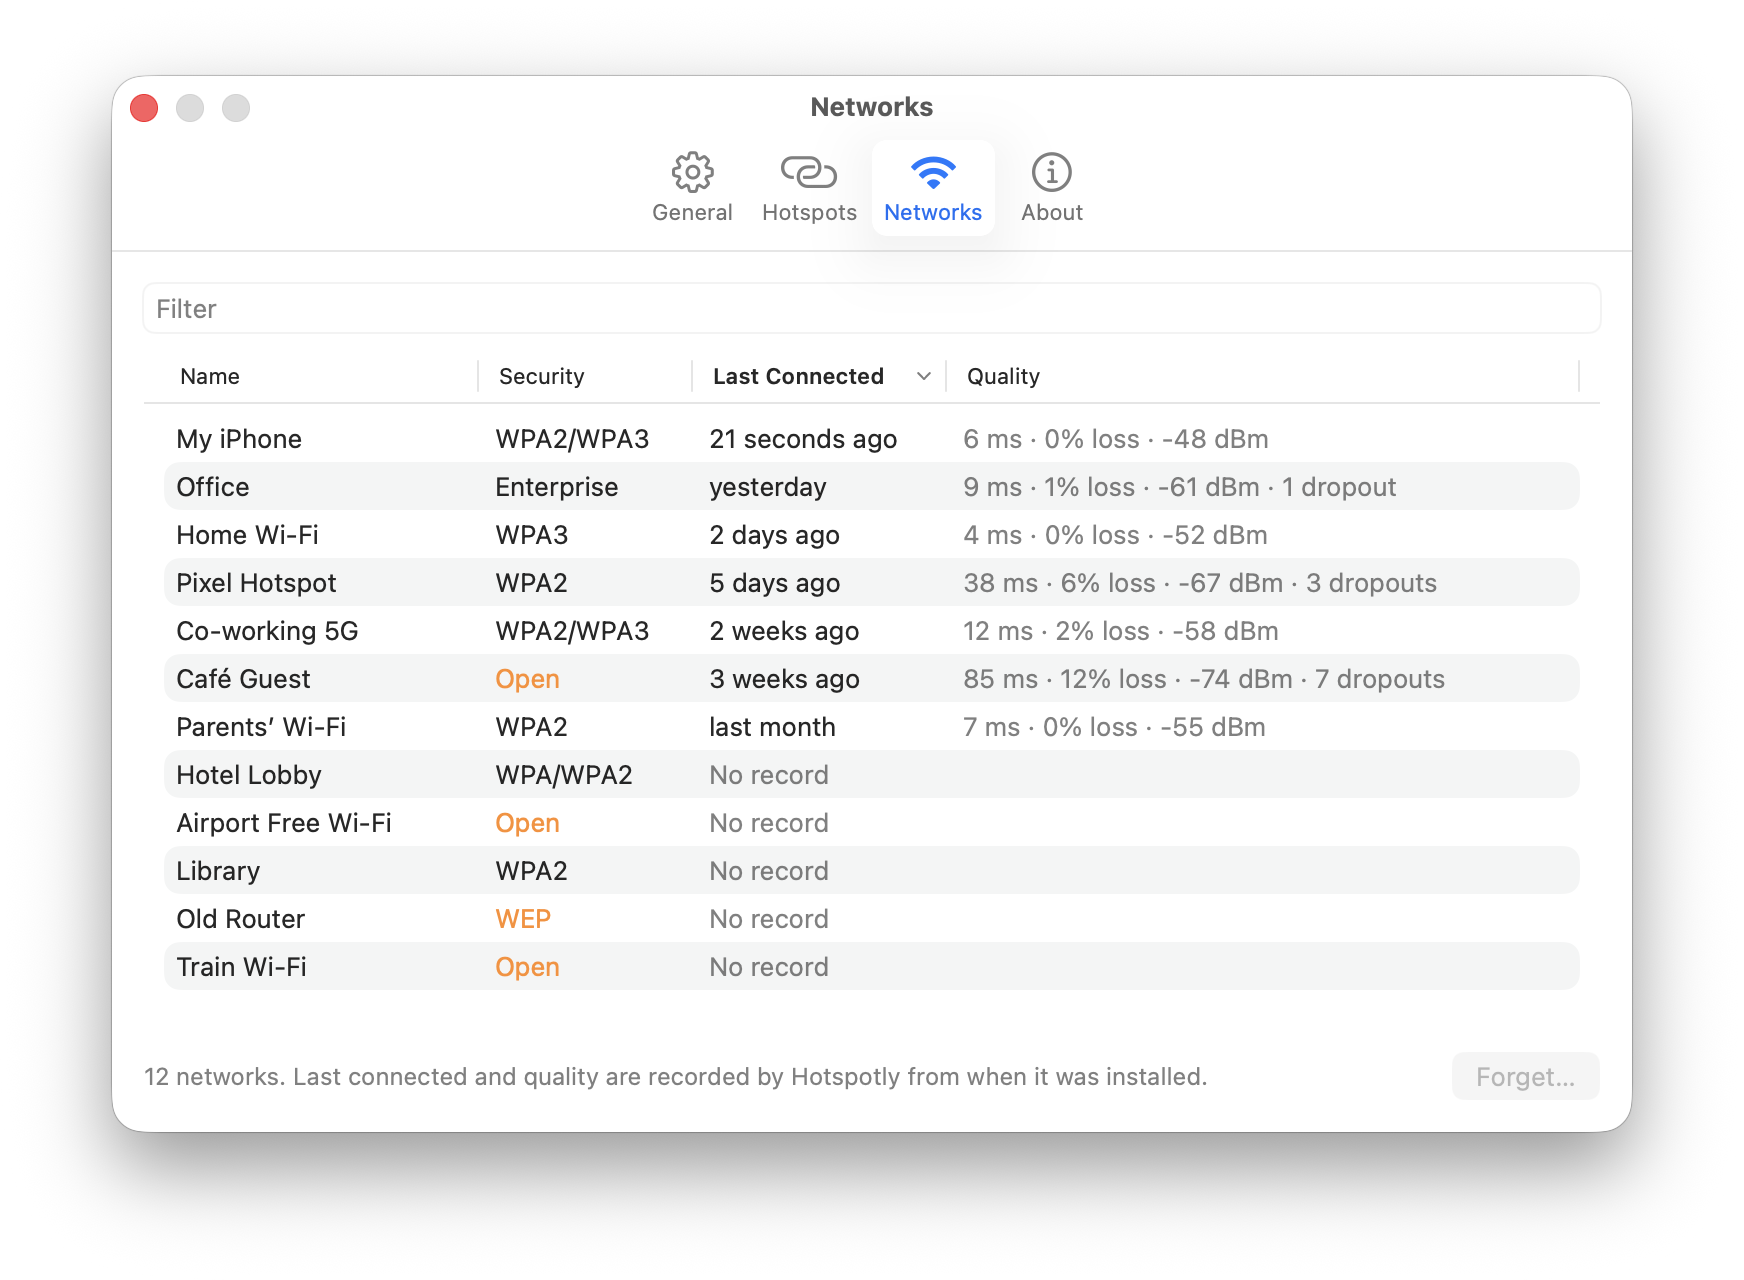
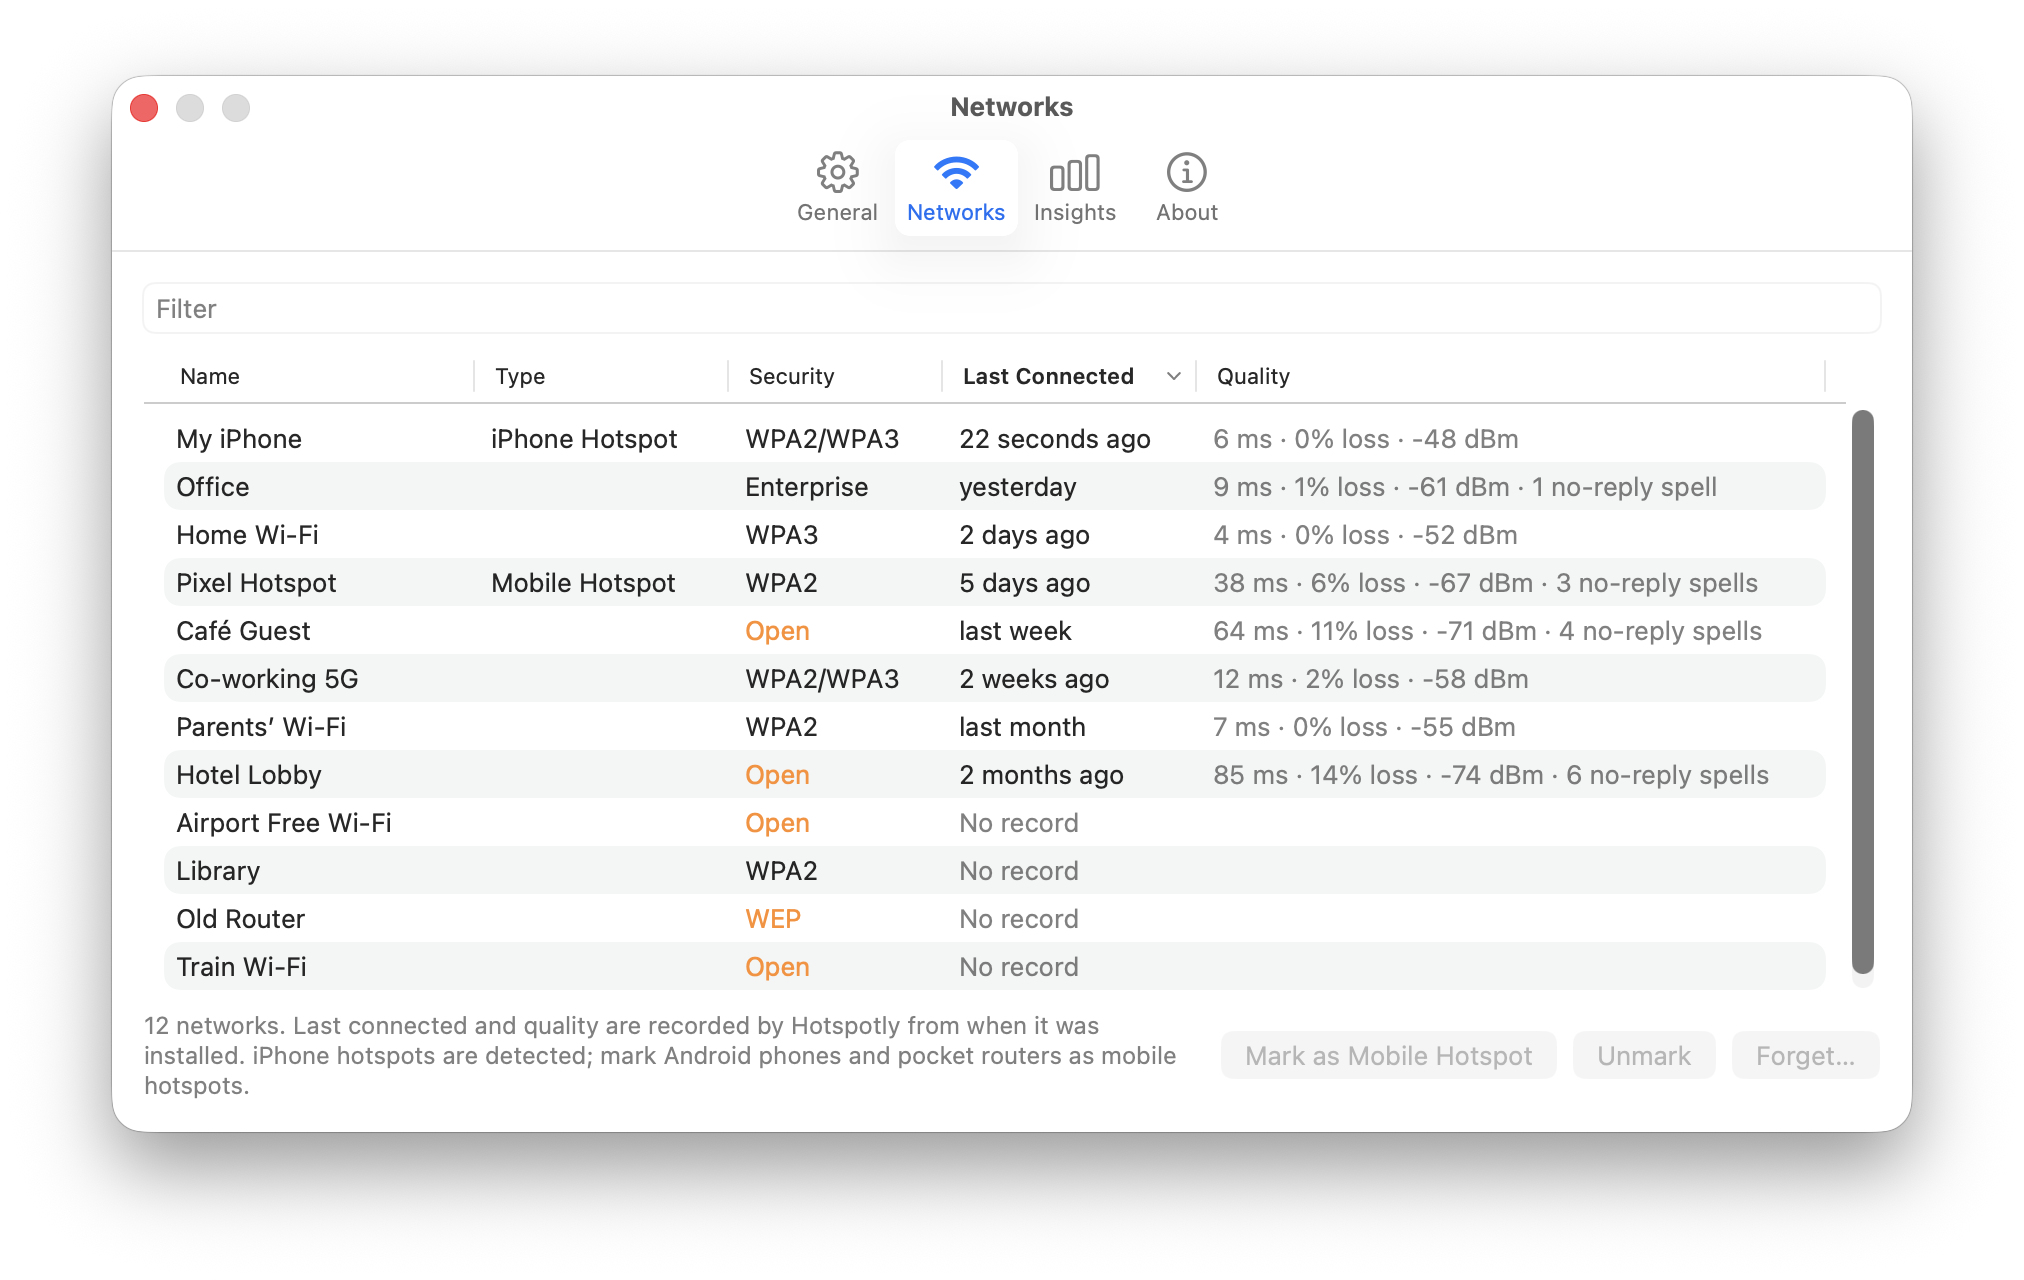
docs: trim the READMEs and show the Insights tab
Each setting is described once, the Using it sections become short paragraphs next to the
screenshots, and the Hotspots tab screenshots give way to the Insights tab and the Networks table
with its Type column.

diff --git a/README.md b/README.md
@@ -18,127 +18,77 @@ Keeps your Mac steady on your phone's hotspot and on Wi-Fi.
   <img src="docs/screenshots/menu-dark.png" width="306" alt="The Hotspotly menu: connection and protection lights, signal, channel, Wi-Fi standard and data used">
 </p>
 
-Hotspotly is a menu bar app for Macs that live on a phone's hotspot. It keeps the connection from
-dropping, shows how good it is, and tidies up the networks your Mac remembers.
+Hotspotly is a menu bar app for Macs that live on a phone's hotspot.
 
-- **Stops hotspot dropouts.** Turns off AWDL, the AirDrop radio link that keeps pulling the Wi-Fi
-  chip off channel, while you are on a hotspot, and turns it back on when you leave.
-- **Keeps the hotspot awake.** Pings the phone so it does not shut an idle hotspot down.
-- **Pins a network.** Pulls the Mac back when macOS wanders off to another remembered network.
-- **Shows the connection.** Latency and packet loss to the router, signal, channel, Wi-Fi standard
-  and, on a hotspot, how much data the Mac has used.
-- **Manages remembered networks.** Lists every network the Mac remembers with its security and how
-  well it worked, and forgets several at once.
-- **Updates itself.** Signed, notarized, and updated from inside the app.
+- **Stops hotspot dropouts** by turning off AWDL, the AirDrop radio link that keeps pulling the
+  Wi-Fi chip off channel, and keeps an idle hotspot awake.
+- **Pins a network**, pulling the Mac back when macOS wanders off to another one.
+- **Shows the connection**: latency, packet loss, signal and, on a hotspot, data used.
+- **Manages remembered networks**: security, quality, and forgetting several at once.
+- **Shows whether it helps**, comparing your networks with AWDL off and on.
+- **Updates itself**: signed, notarized, and updated from inside the app.
 
 iPhone hotspots are recognised automatically; Android phones and pocket routers can be marked by
-hand. The menu follows the system language (English or Traditional Chinese).
+hand. The interface is in English or Traditional Chinese, following the system.
 
 ## Install
 
 Requires macOS 13 (Ventura) or later.
 
 1. Download [Hotspotly.zip](https://github.com/minanyang/hotspotly/releases/latest/download/Hotspotly.zip),
-   unzip it, drag **Hotspotly** to Applications and open it. It is signed with a Developer ID and
-   notarized by Apple.
-2. When it asks, click **Open System Settings** and turn on **Hotspotly** under **Login Items &
-   Extensions → Allow in the Background**. That allows its helper (see [Permissions](#permissions)).
-3. Allow Location when asked, so the menu can show network names.
-4. Turn on **Open at Login** under **Settings… → General** in its menu.
+   unzip it, and drag **Hotspotly** to Applications.
+2. Open it and allow its helper when asked: **Login Items & Extensions → Allow in the Background**
+   (see [Permissions](#permissions)). Allow Location too, for network names.
+3. Turn on **Open at Login** under **Settings… → General**.
 
-Or, from a terminal:
-
-```sh
-curl -fsSL https://raw.githubusercontent.com/minanyang/hotspotly/main/install.sh | bash
-```
-
-### From source
-
-Requires the Xcode Command Line Tools.
-
-```sh
-git clone https://github.com/minanyang/hotspotly
-cd hotspotly
-make install          # builds Hotspotly.app into /Applications; the first build downloads Sparkle
-open /Applications/Hotspotly.app
-```
+Or run `curl -fsSL https://raw.githubusercontent.com/minanyang/hotspotly/main/install.sh | bash`.
+To build from source (needs the Xcode Command Line Tools): `git clone` this repository and run
+`make install`.
 
 ## Using it
 
-### The menu
+**The menu** has a switch to turn Hotspotly off and two lights, like the two on the icon's router:
+the network you are on, with latency and loss to its router (amber: loss or slow; red: no reply),
+and protection, AWDL off and on the pinned network (amber: AirDrop allowed or away from the pin).
+On a hotspot it adds **Allow AirDrop for 10 Minutes**.
 
-The switch at the top turns Hotspotly off and on. Below it are two lights, like the two on the
-icon's router:
+**Pin Network** keeps the Mac on one network. It needs the Wi-Fi password once: type it, or use the
+one saved on this Mac. It cannot wake an iPhone hotspot that stopped advertising; the Wi-Fi menu can.
 
-- **The network** you are on, with the latency and packet loss to its router over the last minute,
-  and the signal, channel and Wi-Fi standard underneath; on a hotspot, also the data the Mac has
-  used since joining it. Amber means loss or a slow router; red means the router stopped answering.
-- **Protection**: AWDL off and on the pinned network. Amber means AirDrop is allowed or the Mac is
-  away from the pinned network.
-
-**Allow AirDrop for 10 Minutes** appears while you are on a hotspot. The icon's router is filled
-while you are on one. **Settings…** (⌘,) opens the window described below.
-
-### Where AWDL goes off
-
-**Turn Off AWDL** under **Settings… → General** chooses where Hotspotly turns AWDL off: on mobile
-hotspots (the default), on all networks, or never.
-
-### Pinning a network
-
-Pick a network under **Pin Network** and Hotspotly pulls the Mac back whenever it wanders off,
-trying a few times before giving up. It needs the Wi-Fi password once: type it, or choose **Use
-Password Saved on This Mac…** and enter your Mac password so Hotspotly can read the one macOS saved.
-It keeps the password in your login keychain, so rejoining asks for nothing. It cannot wake an
-iPhone hotspot that has stopped advertising; the built-in Wi-Fi menu can.
-
-### Remembered networks
+**Settings… → Networks** lists the networks the Mac remembers, with type, security (open and WEP in
+orange), when the Mac was last on them and how well they worked. Select some to **Mark as Mobile
+Hotspot** or **Forget…** them.
 
 <p align="center">
   <picture>
     <source media="(prefers-color-scheme: dark)" srcset="docs/screenshots/networks-dark.png">
-    <img src="docs/screenshots/networks-light.png" width="720" alt="Settings, Networks tab: remembered networks with security, last connected and quality">
+    <img src="docs/screenshots/networks-light.png" width="720" alt="Settings, Networks tab: remembered networks with type, security, last connected and quality">
   </picture>
 </p>
 
-**Settings… → Networks** lists every network the Mac remembers, with its security (open and WEP
-networks in orange), when the Mac was last on it and how well it worked. iPhone hotspots are
-detected automatically; select an Android phone or a pocket router and click **Mark as Mobile
-Hotspot** to treat it as one. Select several and click **Forget…** to remove them. macOS keeps its own join dates where only
-root with Full Disk Access can read them, so Hotspotly records its own, starting when you install it.
+**Settings… → Insights** shows whether Hotspotly helps: latency, loss and drops with AWDL off and on,
+recent drops with their cause from the system log, and what Hotspotly did. It stays on your Mac.
 
-### Insights
+<p align="center">
+  <picture>
+    <source media="(prefers-color-scheme: dark)" srcset="docs/screenshots/insights-dark.png">
+    <img src="docs/screenshots/insights-light.png" width="520" alt="Settings, Insights tab: latency, loss and drops with AWDL off and on, what Hotspotly did, and recent drops">
+  </picture>
+</p>
 
-**Settings… → Insights** shows whether Hotspotly helps on your networks. It compares latency,
-packet loss and drops with AWDL off and on (on while AirDrop is allowed, or where Hotspotly leaves
-it alone), lists recent drops with their cause from the system log (the phone or router ended it,
-the signal was lost, macOS switched networks, the Mac slept), and counts what Hotspotly did. The
-measurements stay on your Mac.
-
-### Updates
-
-Hotspotly checks for a new version once a day and offers it in the menu, or right away with **Check
-for Updates…**. Updates come from this repository's releases, are signed, and install with one
-click. **Settings… → About** turns automatic checks and installs on or off.
-
-### More
-
-**Hide Menu Bar Icon** under **Settings… → General** keeps Hotspotly running without the icon; open
-the app again to get to its settings. Quitting Hotspotly turns AWDL back on. The log is at
+**Settings… → General** chooses where AWDL goes off and can hide the menu bar icon (open the app
+again to reach its settings). **Settings… → About** controls automatic updates. The log is at
 `~/Library/Logs/hotspotly.log`.
 
 ## What is AWDL?
 
-AWDL (Apple Wireless Direct Link) lets Apple devices talk to each other directly over Wi-Fi; it is
-behind AirDrop, Handoff, Universal Control and Sidecar. It shares the Mac's single Wi-Fi radio, and
-several times a second it takes the radio to another channel to look for nearby devices. A home
-router copes; a phone hotspot often shows latency spikes or drops the connection.
+AWDL (Apple Wireless Direct Link) is how Apple devices talk directly over Wi-Fi, behind AirDrop,
+Handoff, Universal Control and Sidecar. It shares the Mac's single radio and takes it to other
+channels several times a second. A home router copes; a phone hotspot often lags or drops.
 
-Turning AWDL off fixes this but stops those features, so by default Hotspotly turns it off only on a hotspot,
-and again within milliseconds whenever macOS brings it back. **Allow AirDrop for 10 Minutes** keeps it on
-for a while; **Turn Off AWDL** under **Settings… → General** chooses where it goes off: on
-hotspots (the default), on all networks, or never. `ifconfig awdl0` shows `<UP,…>` when
-it is on.
+Turning AWDL off fixes that but stops those features, so by default Hotspotly does it only on mobile
+hotspots, and again within milliseconds whenever macOS brings it back. **Turn Off AWDL** under
+**Settings… → General** can choose all networks or never instead; quitting Hotspotly turns it back on.
 
 ## Command line
 
@@ -169,25 +119,15 @@ The commands change the running app's settings; they need the app to be running,
 
 ## Permissions
 
-- **A helper with administrator rights, allowed once.** Turning AWDL off needs root, so Hotspotly
-  ships a small helper that macOS starts when the app needs it and stops when the app quits. It
-  does three things and nothing else: turns AWDL off and on, forgets the networks you pick in the
-  Networks tab, and links the command line tool into `/usr/local/bin`. macOS checks that every
-  caller is Hotspotly.app signed by its developer, so no other program can use it. Allow it under
-  **System Settings → General → Login Items & Extensions → Allow in the Background**;
-  **Settings… → General** shows whether it is allowed. Without it, keepalive and pinning still
-  work, and **Allow Hotspotly’s Helper…** stays in the menu until you allow it or set **Turn Off
-  AWDL** to **Never** under **Settings… → General**. Versions before 0.6.0 used a sudoers rule
-  instead; the helper removes it.
-- **Location (optional).** macOS hides Wi-Fi network names from apps without location access.
-  With it, the menu shows the current network's name. Without it, everything still works:
-  Hotspotly tells networks apart by their gateway's MAC address, which macOS does not hide.
-  It never reads your location.
-- **Login keychain.** Passwords of networks you pin from Hotspotly, under
-  `io.github.minanyang.hotspotly`.
-- **Network.** Besides pinging your router, Hotspotly fetches `appcast.xml` from
-  `raw.githubusercontent.com` once a day to look for updates, so GitHub sees a request from your IP
-  address. Nothing else is sent.
+- **Helper (allowed once).** Turning AWDL off needs root, so a small helper does it, along with
+  forgetting networks and linking the command line tool. macOS starts it for Hotspotly.app only and
+  it stops when the app quits. Without it, keepalive and pinning still work. Versions before 0.6.0
+  used a sudoers rule; the helper removes it.
+- **Location (optional).** macOS shows Wi-Fi names only to apps with location access; Hotspotly
+  needs them for the menu, the Networks tab and marking hotspots. It never reads your location.
+- **Login keychain.** Passwords of networks you pin, under `io.github.minanyang.hotspotly`.
+- **Network.** Besides pinging your router, Hotspotly fetches `appcast.xml` from GitHub once a day
+  to check for updates. Nothing else is sent.
 
 ## Uninstall
 
